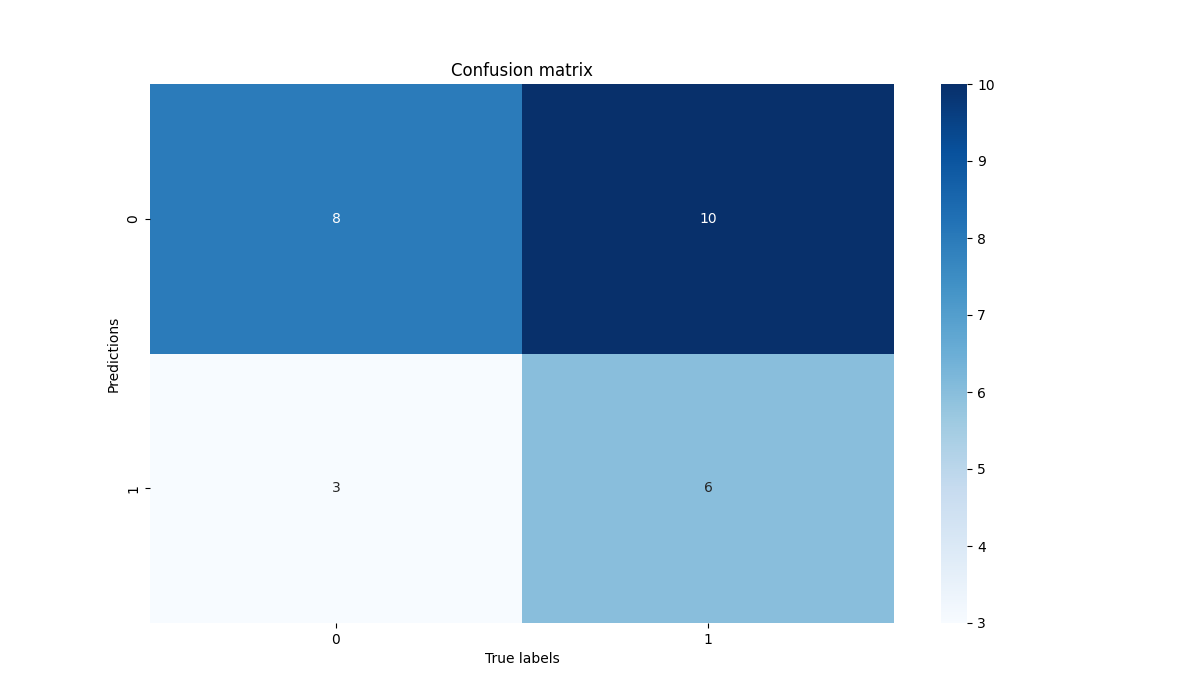
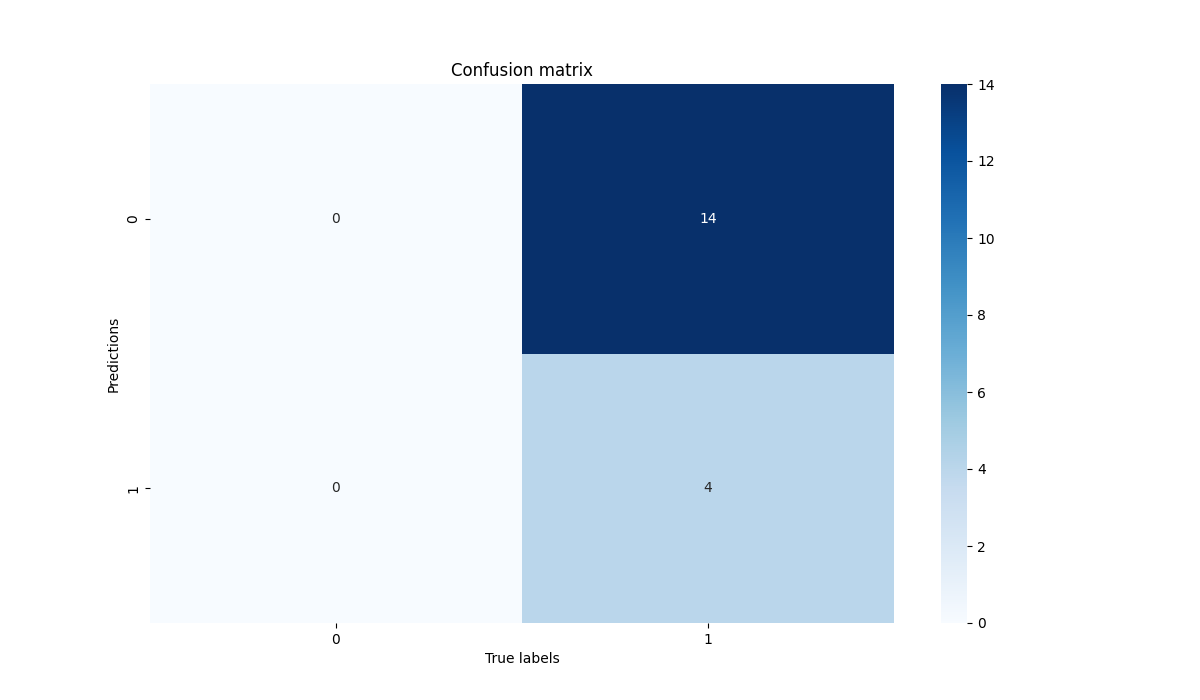
Improve solar panel detection

Changed region(s): [[0.1233, 0.12, 0.7708, 0.9], [0.8017, 0.33, 0.8325, 0.36], [0.8017, 0.21, 0.8325, 0.24]]

diff --git a/src/solar_detection/solar_detector.py b/src/solar_detection/solar_detector.py
@@ -5,22 +5,34 @@ class SolarRoofDetector(nn.Module):
     """
     Solar detector on roofs model
     """
-    def __init__(self, in_channels: int = 3, dropout_rate: float = 0):
+    def __init__(self, in_channels: int = 3, dropout_rate: float = 0.1, width: int = 1450, height: int = 780):
         """
         Args:
             in_channels (int): The number of input channels 
             dropout_rate (float): Probability of dropping a random neuron
         """
         super(SolarRoofDetector, self).__init__()
+
         self.conv1 = nn.Conv2d(in_channels=in_channels, out_channels=32, kernel_size=3, stride=1, padding=1)
         self.bn1 = nn.BatchNorm2d(32)
         self.conv2 = nn.Conv2d(in_channels=32, out_channels=64, kernel_size=3, stride=1, padding=1)
         self.bn2 = nn.BatchNorm2d(64)
         self.conv3 = nn.Conv2d(in_channels=64, out_channels=128, kernel_size=3, stride=1, padding=1)
         self.bn3 = nn.BatchNorm2d(128)
+        
+        self.conv4 = nn.Conv2d(in_channels=128, out_channels=64, kernel_size=3, stride=1, padding=1)
+        self.bn4 = nn.BatchNorm2d(64)
+        self.conv5 = nn.Conv2d(in_channels=64, out_channels=128, kernel_size=3, stride=1, padding=1)
+        self.bn5 = nn.BatchNorm2d(128)
+
+        self.conv6 = nn.Conv2d(in_channels=128, out_channels=64, kernel_size=3, stride=1, padding=1)
+        self.bn6 = nn.BatchNorm2d(64)
+        self.conv7 = nn.Conv2d(in_channels=64, out_channels=128, kernel_size=3, stride=1, padding=1)
+        self.bn7 = nn.BatchNorm2d(128)
+
         self.pool = nn.MaxPool2d(kernel_size=2, stride=2)
         self.dropout = nn.Dropout(p=dropout_rate)
-        self.fc1 = nn.Linear(128*64*64, 1)
+        self.fc1 = nn.Linear(128*97*181, 1)
         self.sigmoid = nn.Sigmoid()
 
     def forward(self, x: Tensor) -> Tensor:
@@ -33,9 +45,16 @@ class SolarRoofDetector(nn.Module):
         Returns:
             Tensor: The output tensor after passing through the network
         """
-        x = self.pool(nn.ReLU()(self.bn1(self.conv1(x))))
-        x = self.pool(nn.ReLU()(self.bn2(self.conv2(x))))
+        x = nn.ReLU()(self.bn1(self.conv1(x)))
+        x = nn.ReLU()(self.bn2(self.conv2(x)))
         x = self.pool(nn.ReLU()(self.bn3(self.conv3(x))))
+
+        x = nn.ReLU()(self.bn4(self.conv4(x)))
+        x = self.pool(nn.ReLU()(self.bn5(self.conv5(x))))
+
+        x = nn.ReLU()(self.bn6(self.conv6(x)))
+        x = self.pool(nn.ReLU()(self.bn7(self.conv7(x))))
+
         x = x.reshape(x.shape[0], -1)
         x = self.dropout(x)
         x = self.fc1(x)

diff --git a/src/utils/model/data_preparation.py b/src/utils/model/data_preparation.py
@@ -132,12 +132,16 @@ class BuildTrainTestDataset(Dataset):
         else:
             return image
 
-def prepare_from_csv_and_dir(csv_file: str, img_dir: str, enhance_val: int, resize_val: int | Tuple[int, int] = None) -> Tuple[DataLoader, DataLoader, List[int]]:
+def prepare_from_csv_and_dir(csv_file: str, 
+                             img_dir: str, 
+                             data_multiplier: int, 
+                             resize_val: int | Tuple[int, int] = None,
+                             batch_size: int = 32) -> Tuple[DataLoader, DataLoader, List[int]]:
     """
     Divides the data for training and testing datasets and prepares them to model input
 
     Args:
-        enhance_val (int): Data replication number
+        data_multiplier (int): Data multiplication number
         csv_file (str): Path to the csv file with image names and labels.
         image_dir (str): Directory with all the images.
         resize_val (int | Tuple[int, int]): Shape of resized image
@@ -176,7 +180,7 @@ def prepare_from_csv_and_dir(csv_file: str, img_dir: str, enhance_val: int, resi
                     transforms.ToTensor(),
                     transforms.Normalize((0.5, 0.5, 0.5), (0.5, 0.5, 0.5))])
         
-    for _ in range(enhance_val):
+    for _ in range(data_multiplier):
         train_dataset = BuildTrainTestDataset(x_train, y_train, img_dir, training=True, transform=transform)
         test_dataset = BuildTrainTestDataset(x_test, y_test, img_dir, training=False, transform=transform)
         
@@ -185,9 +189,9 @@ def prepare_from_csv_and_dir(csv_file: str, img_dir: str, enhance_val: int, resi
 
     train_combined, test_combined = ConcatDataset(train), ConcatDataset(test)
 
-    train_loader = DataLoader(train_combined, batch_size=32, shuffle=True)
-    test_loader = DataLoader(test_combined, batch_size=32, shuffle=False)
+    train_loader = DataLoader(train_combined, batch_size=batch_size, shuffle=True)
+    test_loader = DataLoader(test_combined, batch_size=batch_size, shuffle=False)
     
-    y_combined = pd.concat([y_test] * enhance_val, ignore_index=True)
+    y_combined = pd.concat([y_test] * data_multiplier, ignore_index=True)
     return train_loader, test_loader, y_combined.tolist()
 

diff --git a/src/pipelines/solar_detection.py b/src/pipelines/solar_detection.py
@@ -1,4 +1,4 @@
-from src.utils import prepare_from_csv_and_dir, prepare_for_prediction, train_model, predict, EvaluateMetrics
+from src.utils import prepare_from_csv_and_dir, prepare_for_prediction, train_model, predict, EvaluateMetrics, get_torch_device
 from src.solar_detection.solar_detector import SolarRoofDetector
 from typing import Tuple
 
@@ -7,8 +7,9 @@ def generate_model(csv_file_path: str,
                    num_epochs: int,
                    model_path: str, 
                    metrics_dir: str,
-                   enhance_val: int = 1,
+                   data_multiplier: int = 1,
                    resize_val: int | Tuple[int, int] = None,
+                   batch_size: int = 32,
                    learning_rate: float = 0.0001
                    ) -> None:
     """
@@ -20,12 +21,14 @@ def generate_model(csv_file_path: str,
         num_epochs (int): Number of epochs
         model_path (str): A path to storing the model
         metrics_dir (str): A directory path for storing metrics
-        enhance_val (int): Data replication number
+        data_multiplier (int): Data multiplication number
         resize_val (int | Tuple[int, int]): Shape of resized image
+        batch_size (int): Number of samples in batch
         learning_rate (float): Learning rate for model training
     """
-    train_loader, test_loader, labels = prepare_from_csv_and_dir(csv_file_path, potential_roofs_dir, enhance_val, resize_val)
-    model = SolarRoofDetector()
+    train_loader, test_loader, labels = prepare_from_csv_and_dir(csv_file_path, potential_roofs_dir, data_multiplier, resize_val, batch_size)
+    device = get_torch_device()
+    model = SolarRoofDetector().to(device)
     history = train_model(model, train_loader, num_epochs=num_epochs, lr=learning_rate, save_path=model_path)
     predictions = predict(model, test_loader, model_path)
     evaluate_metrics = EvaluateMetrics(labels, predictions)

diff --git a/src/solar_detection/solar_detector_1.py b/src/solar_detection/solar_detector_1.py
@@ -1,0 +1,43 @@
+from torch import Tensor
+from torch import nn
+
+class SolarRoofDetector(nn.Module):
+    """
+    Solar detector on roofs model
+    """
+    def __init__(self, in_channels: int = 3, dropout_rate: float = 0.1, width: int = 1450, height: int = 780):
+        """
+        Args:
+            in_channels (int): The number of input channels 
+            dropout_rate (float): Probability of dropping a random neuron
+        """
+        super(SolarRoofDetector, self).__init__()
+        self.conv1 = nn.Conv2d(in_channels=in_channels, out_channels=8, kernel_size=3, stride=1, padding=1)
+        self.bn1 = nn.BatchNorm2d(8)
+        self.conv2 = nn.Conv2d(in_channels=8, out_channels=16, kernel_size=3, stride=1, padding=1)
+        self.bn2 = nn.BatchNorm2d(16)
+        self.conv3 = nn.Conv2d(in_channels=16, out_channels=32, kernel_size=3, stride=1, padding=1)
+        self.bn3 = nn.BatchNorm2d(32)
+        self.pool = nn.MaxPool2d(kernel_size=2, stride=2)
+        self.dropout = nn.Dropout(p=dropout_rate)
+        self.fc1 = nn.Linear(32*180*96, 1)
+        self.sigmoid = nn.Sigmoid()
+
+    def forward(self, x: Tensor) -> Tensor:
+        """
+        Define the forward pass of the neural network
+        
+        Args:
+            x (Tensor): The input tensor
+        
+        Returns:
+            Tensor: The output tensor after passing through the network
+        """
+        x = self.pool(nn.ReLU()(self.bn1(self.conv1(x))))
+        x = self.pool(nn.ReLU()(self.bn2(self.conv2(x))))
+        x = self.pool(nn.ReLU()(self.bn3(self.conv3(x))))
+        x = x.reshape(x.shape[0], -1)
+        x = self.dropout(x)
+        x = self.fc1(x)
+        x = self.sigmoid(x)
+        return x

diff --git a/train_solar_detection.py b/train_solar_detection.py
@@ -4,8 +4,11 @@ from config.config import BaseConfig as config
 if __name__ == "__main__":
     generate_model(config.LOCATION_CSV_FILE,
                    config.ROOFS_DIR,
-                   30,
+                   2,
                    config.SOLAR_ROOF_MODEL,
                    config.SOLAR_ROOF_METRICS_DIR,
-                   3,
-                   (512, 512))
+                   2,
+                #    (768, 1440),
+                   learning_rate=0.0001,
+                   batch_size=32
+                   )

diff --git a/src/utils/model/model_training.py b/src/utils/model/model_training.py
@@ -25,7 +25,7 @@ def train_model(model: torch.Tensor,
     """
     criterion = nn.BCELoss()
     optimizer = optim.Adam(model.parameters(), lr=lr, weight_decay=0.0001)
-    scheduler = torch.optim.lr_scheduler.StepLR(optimizer, step_size=int(num_epochs/3), gamma=0.5)
+    scheduler = torch.optim.lr_scheduler.StepLR(optimizer, step_size=max(1, int(num_epochs/3)), gamma=0.5)
     history = []
 
     for epoch in range(num_epochs):

diff --git a/create_roof_detector.py b/create_roof_detector.py
@@ -5,7 +5,7 @@ if __name__ == "__main__":
     generate_model(
         csv_file_path=config.BUILDINGS_CSV_FILE, 
         potential_roofs_dir=config.BUILDING_DETECTION_DIR, 
-        num_epochs=50, 
+        num_epochs=50,
         model_path=config.ROOF_MODEL, 
         metrics_dir=config.ROOF_METRICS_DIR,
         enhance_val=3,
